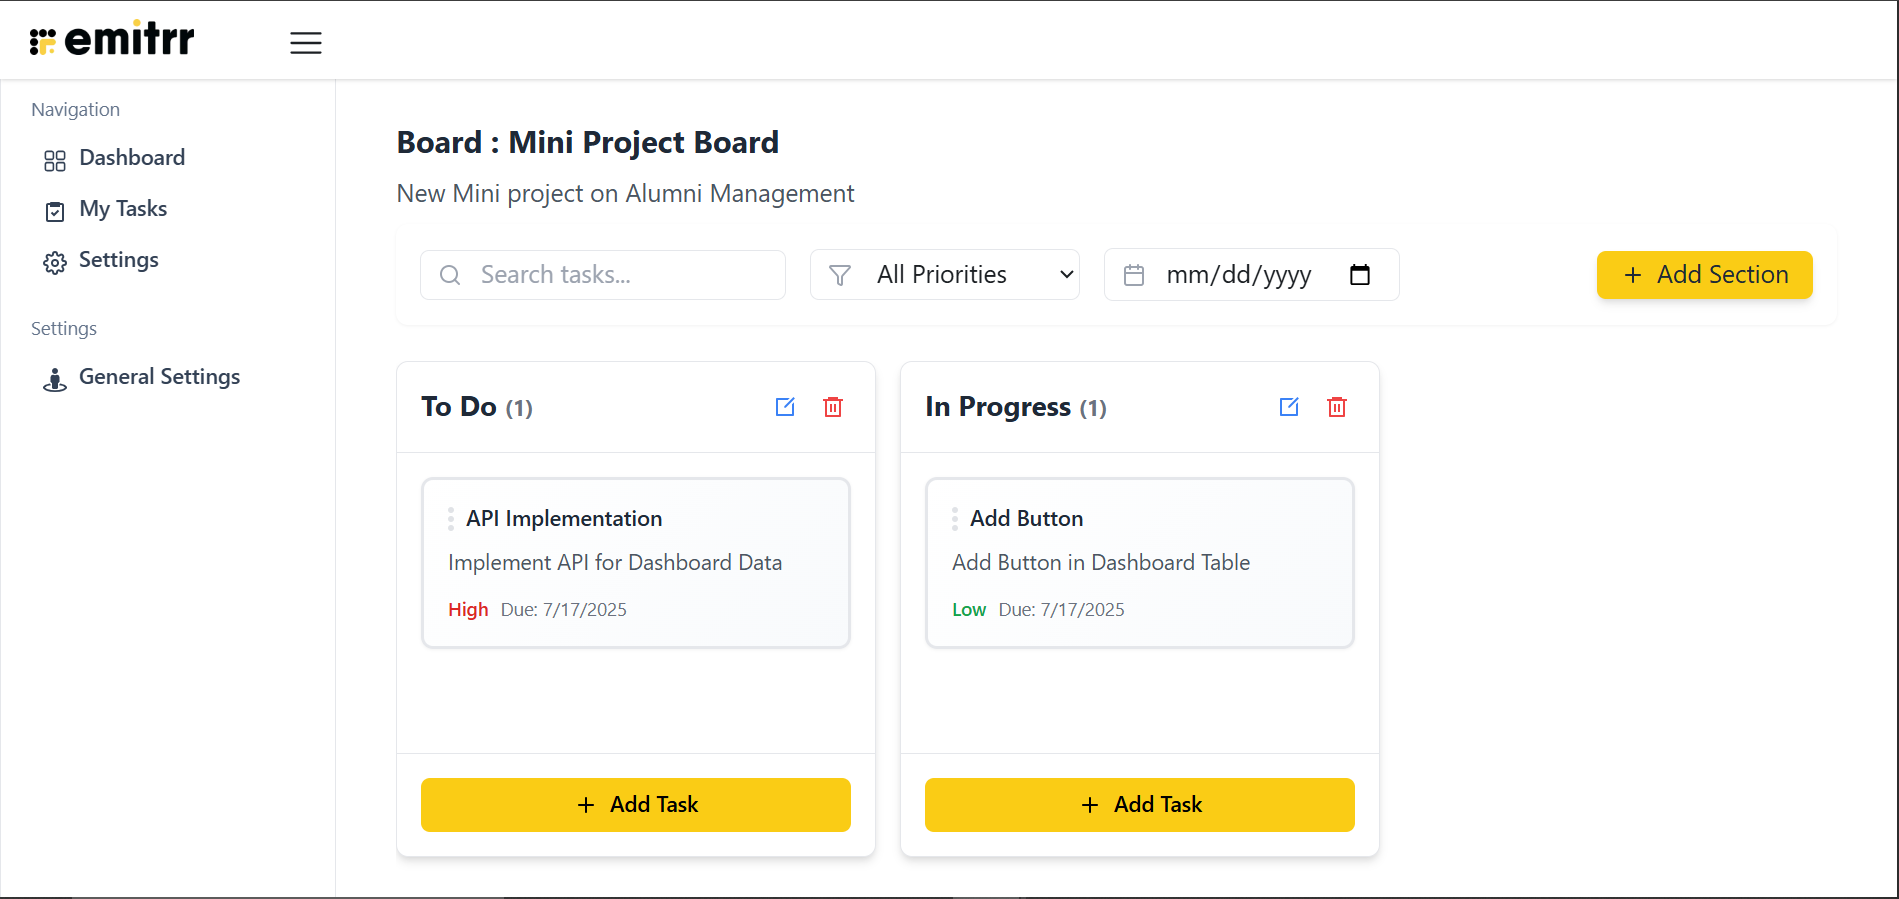
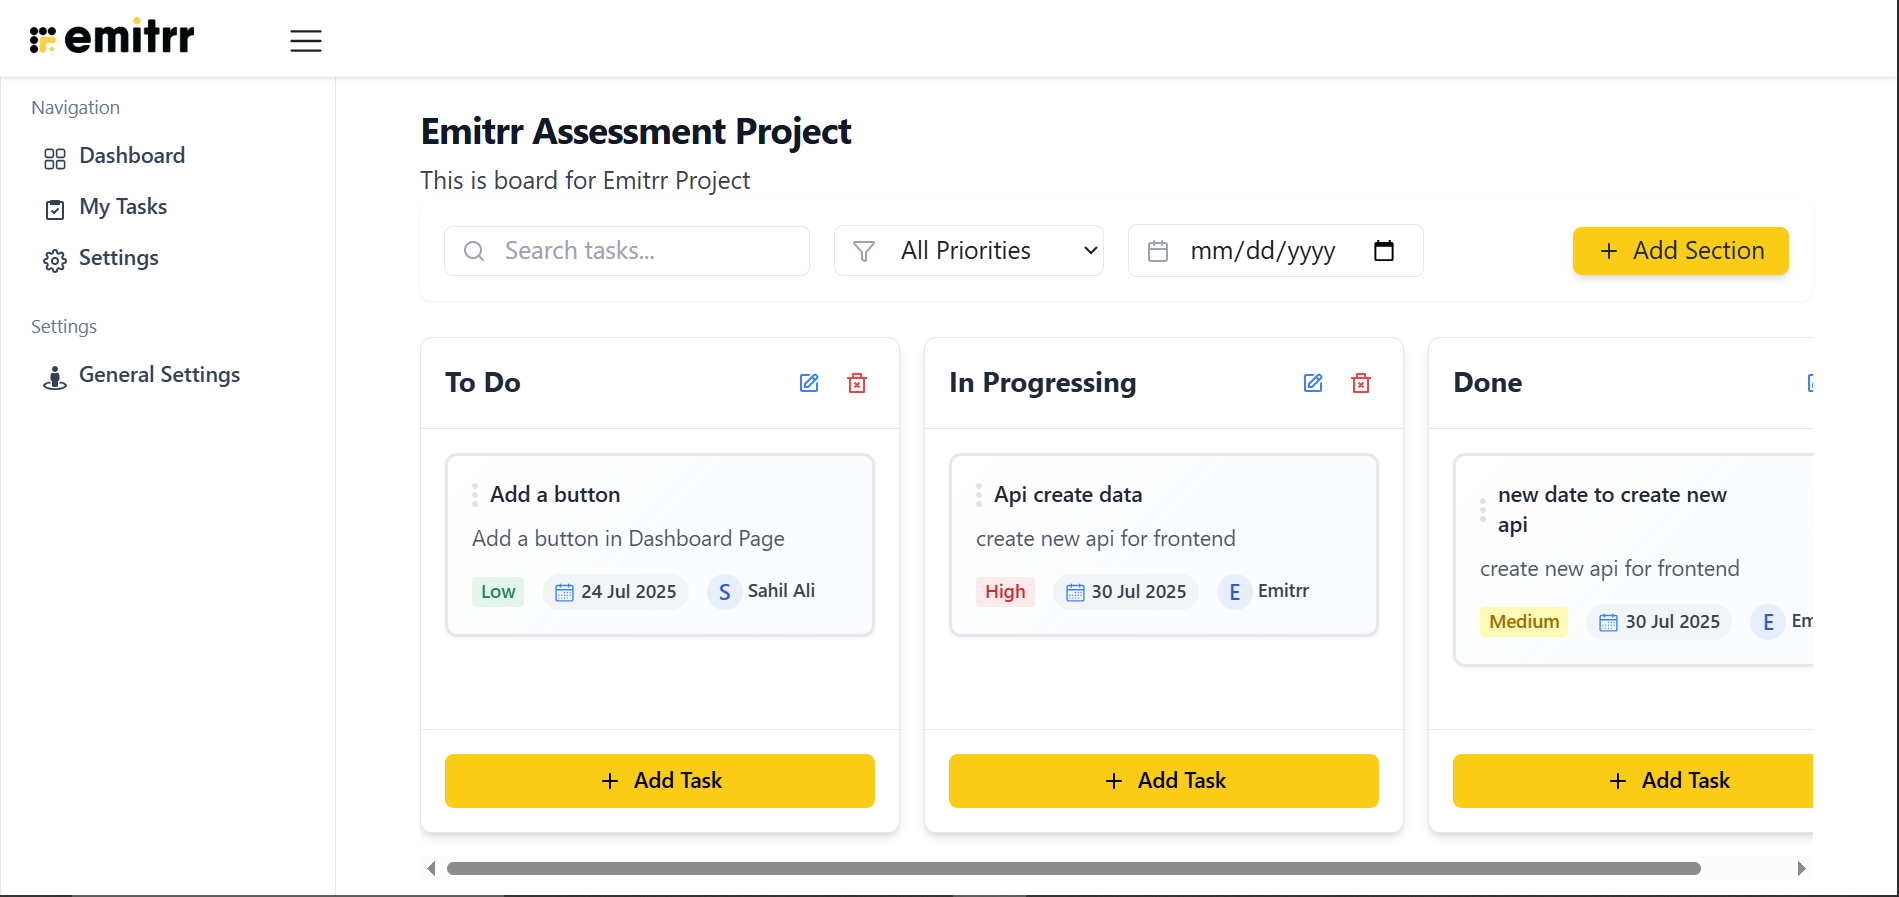
style: update Sidebar and MyTasks components; enhance task display in BoardDetail and Settings

diff --git a/src/pages/MyTaskPage.tsx b/src/pages/MyTaskPage.tsx
@@ -1,4 +1,4 @@
-import { useEffect } from 'react';
+import { useEffect, useState } from 'react';
 import Breadcrumbs from '../components/Breadcrumb';
 import { RiHome2Line } from 'react-icons/ri';
 import DashboardCard from '../components/DashboardCard';
@@ -6,9 +6,21 @@ import { GoTasklist } from 'react-icons/go';
 import { MdPending } from 'react-icons/md';
 import Table from '../components/Table/Table';
 import { useBoard } from '../context/BoardContext';
+import type { Board, Task } from '../types/board';
+import { HiChevronDown } from 'react-icons/hi';
+
+interface TableProps {
+  rows: any[];
+  headers: { title: string; accessor: string }[];
+  loading: boolean;
+  showPagination: boolean;
+  showSearch: boolean;
+  top?: null | React.ReactNode; // Fix: Added top prop
+}
 
 function MyTasks() {
   const { board, boards, loadBoard } = useBoard();
+  const [selectedUser, setSelectedUser] = useState<string>('All Users');
 
   // Load a default board if none is selected
   useEffect(() => {
@@ -17,16 +29,31 @@ function MyTasks() {
     }
   }, [boards, board, loadBoard]);
 
-  // Calculate user's tasks and tasks due soon
-  const userTasks = boards.flatMap((b: any) =>
-    b.columns?.flatMap((c: any) =>
-      c.tasks?.filter((t: any) => t.createdBy === 'Emitrr').map((t: any) => ({
-        ...t,
-        boardName: b.name,
-      })) || []
-    ) || []
-  );
+  // Get unique createdBy users
+  const uniqueUsers = Array.from(
+    new Set(
+      boards.flatMap((b: Board) =>
+        (b.columns || []).flatMap((c) => c.tasks.map((t: Task) => t.createdBy))
+      )
+    )
+  ).filter((user): user is string => !!user);
 
+  // Calculate user's tasks
+  const userTasks = boards
+    .flatMap((b: Board) =>
+      (b.columns || []).flatMap((c) =>
+        c.tasks
+          .filter((t: Task) =>
+            selectedUser === 'All Users' ? true : t.createdBy === selectedUser
+          )
+          .map((t: Task) => ({
+            ...t,
+            boardName: b.name,
+          }))
+      )
+    );
+
+  // Calculate tasks due soon
   const dueSoonTasks = userTasks.filter((task: any) => {
     const dueDate = new Date(task.dueDate);
     const today = new Date();
@@ -35,8 +62,8 @@ function MyTasks() {
   });
 
   const dashData = {
-    totalTasks: userTasks.length,
-    dueSoonTasks: dueSoonTasks.length,
+    totalTasks: userTasks.length.toString(), // Fix: Convert to string
+    dueSoonTasks: dueSoonTasks.length.toString(), // Fix: Convert to string
   };
 
   const breadcrumbsItems = [
@@ -55,6 +82,32 @@ function MyTasks() {
   return (
     <div className="flex flex-col pt-16 p-4">
       <Breadcrumbs items={breadcrumbsItems} />
+      <hr className='mb-4 border-dotted'></hr>
+<div className="flex justify-between items-center mb-1 px-6">
+  <h4 className="text-3xl font-semibold text-gray-800 tracking-tight">📋 Your Tasks</h4>
+
+ <div className="relative flex items-center gap-2 w-80">
+      <label className="text-sm font-medium text-gray-600 whitespace-nowrap">
+      Filter Tasks by User:
+    </label>
+    <select
+      value={selectedUser}
+      onChange={(e) => setSelectedUser(e.target.value)}
+      className="w-full bg-white border border-gray-300 rounded-lg px-4 py-2 pr-10 text-gray-700 text-sm focus:outline-none focus:ring-2 focus:ring-blue-500 shadow-sm hover:bg-gray-100 transition-all duration-200 appearance-none"
+    >
+      <option value="All Users">All Users</option>
+      {uniqueUsers.map((user) => (
+        <option key={user} value={user}>
+          {user}
+        </option>
+      ))}
+    </select>
+    <div className="absolute inset-y-0 right-3 top-7 flex items-center pointer-events-none">
+      <HiChevronDown className="w-4 h-4 text-gray-400 mb-6" />
+    </div>
+  </div>
+</div>
+
       <div className="flex flex-wrap m-3">
         <DashboardCard
           loading={false}
@@ -74,16 +127,13 @@ function MyTasks() {
         />
       </div>
       <div className="px-6 py-4">
-        <h4 className="text-2xl font-bold text-gray-800 mb-4">My Tasks</h4>
         {userTasks.length === 0 ? (
-          <p className="text-gray-600">No tasks assigned to you.</p>
+          <p className="text-gray-600">No tasks assigned to {selectedUser === 'All Users' ? 'any user' : selectedUser}.</p>
         ) : (
           <Table
             rows={userTasks}
             headers={headers}
-            // top={null}
             loading={false}
-            // rowPath="/tasks"
             showPagination={true}
             showSearch={true}
           />

diff --git a/src/pages/SettingPage.tsx b/src/pages/SettingPage.tsx
@@ -1,47 +1,39 @@
-import  { useEffect } from 'react';
+import React, { useState, useEffect } from 'react';
 import Breadcrumbs from '../components/Breadcrumb';
 import { RiHome2Line } from 'react-icons/ri';
-import DashboardCard from '../components/DashboardCard';
-import { FiSettings } from 'react-icons/fi';
-import { useBoard } from '../context/BoardContext';
+import toast from 'react-hot-toast';
 
 function Settings() {
-  const { board, boards, loadBoard } = useBoard();
-
-  // Load a default board if none is selected
-  useEffect(() => {
-    if (boards.length > 0 && !board) {
-      loadBoard(boards[0].id);
-    }
-  }, [boards, board, loadBoard]);
-
-  // Calculate number of boards created by user
-  const dashData = {
-    userBoards: boards.filter((b: any) =>
-      b.columns?.some((c: any) => c.tasks?.some((t: any) => t.createdBy === 'Emitrr')) || false
-    ).length,
-  };
-
   const breadcrumbsItems = [
     { text: 'Home', link: '/', icon: <RiHome2Line /> },
     { text: 'Settings' },
   ];
 
+  const [name, setName] = useState('');
+  const [email, setEmail] = useState('');
+  const [isSaved, setIsSaved] = useState(false);
+
+  // Load user from localStorage
+  useEffect(() => {
+    const storedUser = JSON.parse(localStorage.getItem('user') || '{}');
+    if (storedUser.name && storedUser.email) {
+      setName(storedUser.name);
+      setEmail(storedUser.email);
+      setIsSaved(true);
+    }
+  }, []);
+
+  const handleSave = () => {
+    const user = { name, email };
+    localStorage.setItem('user', JSON.stringify(user));
+    toast.success("User Details Saved Successfully!")
+    setIsSaved(true);
+  };
+
   return (
     <div className="flex flex-col pt-16 p-4">
       <Breadcrumbs items={breadcrumbsItems} />
-      <div className="flex flex-wrap m-3">
-        <DashboardCard
-          loading={false}
-          bgColor="#0073B7"
-          icon={<FiSettings />}
-          value="Your Boards"
-          additionalField={dashData.userBoards}
-          description="No. of Boards with Your Tasks"
-        />
-      </div>
       <div className="px-6 py-4">
-        <h4 className="text-2xl font-bold text-gray-800 mb-4">Settings</h4>
         <div className="bg-white p-6 rounded-lg shadow-md">
           <h5 className="text-lg font-semibold text-gray-800 mb-4">Profile Settings</h5>
           <form className="space-y-4">
@@ -52,9 +44,11 @@ function Settings() {
               <input
                 type="text"
                 id="name"
-                className="mt-1 block w-full rounded-md border-gray-300 shadow-sm focus:border-indigo-300 focus:ring focus:ring-indigo-200 focus:ring-opacity-50"
+                value={name}
+                onChange={(e) => setName(e.target.value)}
+                className="mt-1 py-1 pl-2 block w-full rounded-md border-gray-300 shadow-sm focus:border-indigo-300 focus:ring focus:ring-indigo-200 focus:ring-opacity-50"
                 placeholder="Enter your name"
-                disabled
+                disabled={isSaved}
               />
             </div>
             <div>
@@ -64,23 +58,26 @@ function Settings() {
               <input
                 type="email"
                 id="email"
-                className="mt-1 block w-full rounded-md border-gray-300 shadow-sm focus:border-indigo-300 focus:ring focus:ring-indigo-200 focus:ring-opacity-50"
+                value={email}
+                onChange={(e) => setEmail(e.target.value)}
+                className="my-2  py-1 pl-2 block w-full rounded-md border-gray-300 shadow-sm focus:border-indigo-300 focus:ring focus:ring-indigo-200 focus:ring-opacity-50"
                 placeholder="Enter your email"
-                disabled
+                disabled={isSaved}
               />
             </div>
             <div>
               <button
                 type="button"
+                onClick={handleSave}
                 className="bg-yellow-400 text-gray-800 px-4 py-2 rounded-md text-sm hover:bg-yellow-300 shadow-md"
-                disabled
+                disabled={isSaved || !name || !email}
               >
                 Save Changes
               </button>
             </div>
           </form>
           <p className="mt-4 text-sm text-gray-500">
-            Settings are currently disabled. Contact support to update your profile.
+            Save your name and email. Once saved, the fields will be disabled.
           </p>
         </div>
       </div>

diff --git a/src/pages/BoardDetail.tsx b/src/pages/BoardDetail.tsx
@@ -8,12 +8,13 @@ import { Plus, Search, Calendar, Filter } from "lucide-react";
 import Modal from "../components/Modal/Modal";
 import { TaskModalContent } from "../components/Modal/TaskModal";
 import * as Dialog from '@radix-ui/react-dialog';
-import { Cross1Icon } from '@radix-ui/react-icons';
+import { CalendarIcon, Cross1Icon } from '@radix-ui/react-icons';
+import { Avatar, Badge } from "@radix-ui/themes";
 
 const priorityColors: Record<Priority, string> = {
-  high: "text-red-600",
-  medium: "text-yellow-500",
-  low: "text-green-600",
+  high: "red",
+  medium: "yellow",
+  low: "green",
 };
 
 interface TaskData {
@@ -366,18 +367,38 @@ const BoardDetail: React.FC = () => {
                     </div>
                   </div>
                   <p className="text-sm text-gray-600 mb-3 leading-relaxed">
-                    {task.description}
-                  </p>
-                  <div className="flex items-center gap-2 text-xs">
-                    <span className={`font-medium ${priorityColors[task.priority]}`}>
-                      {task.priority.charAt(0).toUpperCase() + task.priority.slice(1)}
-                    </span>
-                    {task.dueDate && (
-                      <span className="text-gray-500">
-                        Due: {new Date(task.dueDate).toLocaleDateString()}
-                      </span>
-                    )}
-                  </div>
+  {task.description}
+</p>
+<div className="flex items-center flex-wrap gap-3 text-xs text-gray-500">
+  <Badge color={priorityColors[task.priority]}>
+    {task.priority.charAt(0).toUpperCase() + task.priority.slice(1)}
+  </Badge>
+
+  {task.dueDate && (
+    <div className="flex items-center gap-1 px-2 py-1 bg-gray-100 rounded-full">
+      <CalendarIcon className="w-3.5 h-3.5 text-blue-500" />
+      <span className="font-medium text-gray-700">
+        {new Date(task.dueDate).toLocaleDateString("en-GB", {
+          day: "2-digit",
+          month: "short",
+          year: "numeric",
+        })}
+      </span>
+    </div>
+  )}
+
+  {task.createdBy && (
+    <div >
+      <Avatar
+        size="1"
+        radius="full"
+        fallback={task.createdBy?.charAt(0).toUpperCase()}
+      />
+      <span className="text-gray-700 font-medium"> {task.createdBy}</span>
+     </div>
+  )}
+</div>
+
                 </div>
               ))}
             </div>

diff --git a/src/components/Slidebar.tsx b/src/components/Slidebar.tsx
@@ -52,11 +52,11 @@ const Sidebar: React.FC = () => {
   const NavMenu: MenuItem[] = [
     { title: "Dashboard", path: '/', icon: <RxDashboard /> },
     { title: "My Tasks", path: '/mytask', icon: <BiTask/> },
-    { title: "Settings", path: '/Setting', icon: <FiSettings /> },
+    // { title: "Settings", path: '/Setting', icon: <FiSettings /> },
   ];
 
   const MastersMenu: MenuItem[] = [
-    { title: "General Settings", path: '/profile', icon: <FaStreetView /> }
+    { title: "General Settings", path: '/Setting', icon: <FaStreetView /> }
   ];
 
   const MenuList: React.FC<MenuListProps> = ({ list, listTitle }) => (

diff --git a/src/context/BoardContext.tsx b/src/context/BoardContext.tsx
@@ -111,13 +111,13 @@ export const BoardProvider: React.FC<{ children: React.ReactNode }> = ({ childre
     });
   }, [board, persistBoard]);
 
-  const addTask = useCallback((colId: string, t: Omit<Task, "id" | "createdBy">) => {
+  const addTask = useCallback((colId: string, t: Omit<Task, "id" >) => {
     if (!board) return;
     console.log('addTask: Adding task to column', colId, 'in board', board.id);
     const newTask: Task = {
       ...t,
       id: Date.now().toString(),
-      createdBy: "Emitrr",
+      // createdBy: "Emitrr",
     };
     persistBoard({
       ...board,
